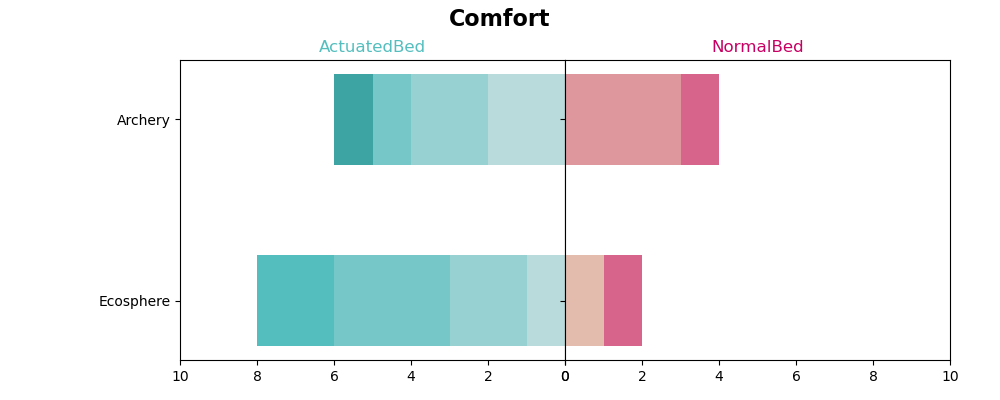
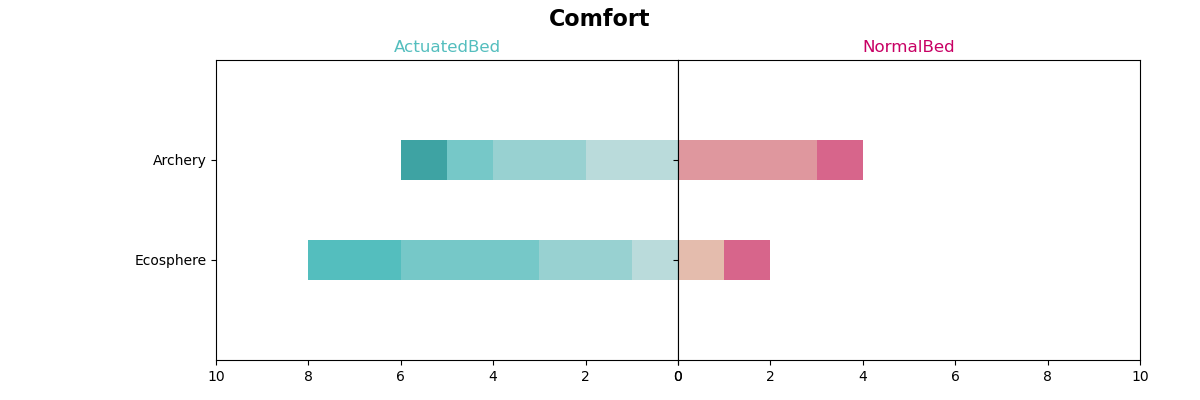
add overall Preference

diff --git a/Summative/Freeplay_DrawLikert.py b/Summative/Freeplay_DrawLikert.py
@@ -37,8 +37,19 @@ def GetDataFromSheet(metrics):
     return DataDict
 
 
+def GetOverallPreference():
+    OverallPreferenceData = {
+        "NormalBed": [0],
+        "ActuatedBed": [0],
+    }
+    for i, row in df.iterrows():
+        OverallPreferenceData[row["OverallPreference"]][0] += 1
+
+    return OverallPreferenceData
+
+
 def DrawHorizontalStackBarChart(FigureTitle, Data):
-    fig, axes = plt.subplots(figsize=(10, 4), ncols=2, sharey=True)
+    fig, axes = plt.subplots(figsize=(12, 4), ncols=2, sharey=True)
     fig.tight_layout()
 
     for i, condition in enumerate(Conditions):
@@ -49,7 +60,7 @@ def DrawHorizontalStackBarChart(FigureTitle, Data):
         axes[i].set_xlim(0, 10)
         axes[i].set_xticks([0, 2, 4, 6, 8, 10])
 
-        for j, point in enumerate(Points):
+        for j in range(0, len(Points)):
             widths = data[:, j]
             starts = data_cum[:, j] - widths
             rects = axes[i].barh(
@@ -57,7 +68,7 @@ def DrawHorizontalStackBarChart(FigureTitle, Data):
                 widths,
                 left=starts,
                 align="center",
-                height=0.5,
+                height=0.4,
                 color=Colors[i][j],
             )
             # axes[i].bar_label(rects, label_type="center")
@@ -68,6 +79,39 @@ def DrawHorizontalStackBarChart(FigureTitle, Data):
     axes[0].yaxis.tick_left()
     axes[0].tick_params(axis="y")
 
+    plt.ylim(-1, 2)
+    plt.subplots_adjust(wspace=0, top=0.85, bottom=0.1, left=0.18, right=0.95)
+    plt.suptitle(FigureTitle, fontsize=16, fontweight="bold")
+
+    figurepath = f"{RootDir}/Result Figure/Summative Freeplay {FigureTitle} [BarH].png"
+    plt.savefig(figurepath, transparent=False)
+    plt.close()
+
+    print(f"Figure saved to {figurepath}\n")
+
+
+def DrawPreferenceDataChart(Data, FigureTitle="Overall Preference"):
+    fig, axes = plt.subplots(figsize=(12, 4), ncols=2, sharey=True)
+    fig.tight_layout()
+
+    for i, condition in enumerate(Conditions):
+
+        axes[i].set_title(condition, color=Colors[i][3])
+        axes[i].set_xlim(0, 10)
+        axes[i].set_xticks([0, 2, 4, 6, 8, 10])
+
+        rects = axes[i].barh(
+            "Overall Preference",
+            Data[condition],
+            align="center",
+            color=Colors[i][1],
+        )
+
+    axes[0].invert_xaxis()
+    axes[0].yaxis.tick_left()
+    axes[0].tick_params(axis="y")
+
+    plt.ylim(-2, 2)
     plt.subplots_adjust(wspace=0, top=0.85, bottom=0.1, left=0.18, right=0.95)
     plt.suptitle(FigureTitle, fontsize=16, fontweight="bold")
 
@@ -83,3 +127,6 @@ DrawHorizontalStackBarChart("Comfort", ComfortData)
 
 PreferenceData = GetDataFromSheet("Preference")
 DrawHorizontalStackBarChart("Preference", PreferenceData)
+
+OverallPreferenceData = GetOverallPreference()
+DrawPreferenceDataChart(OverallPreferenceData)
